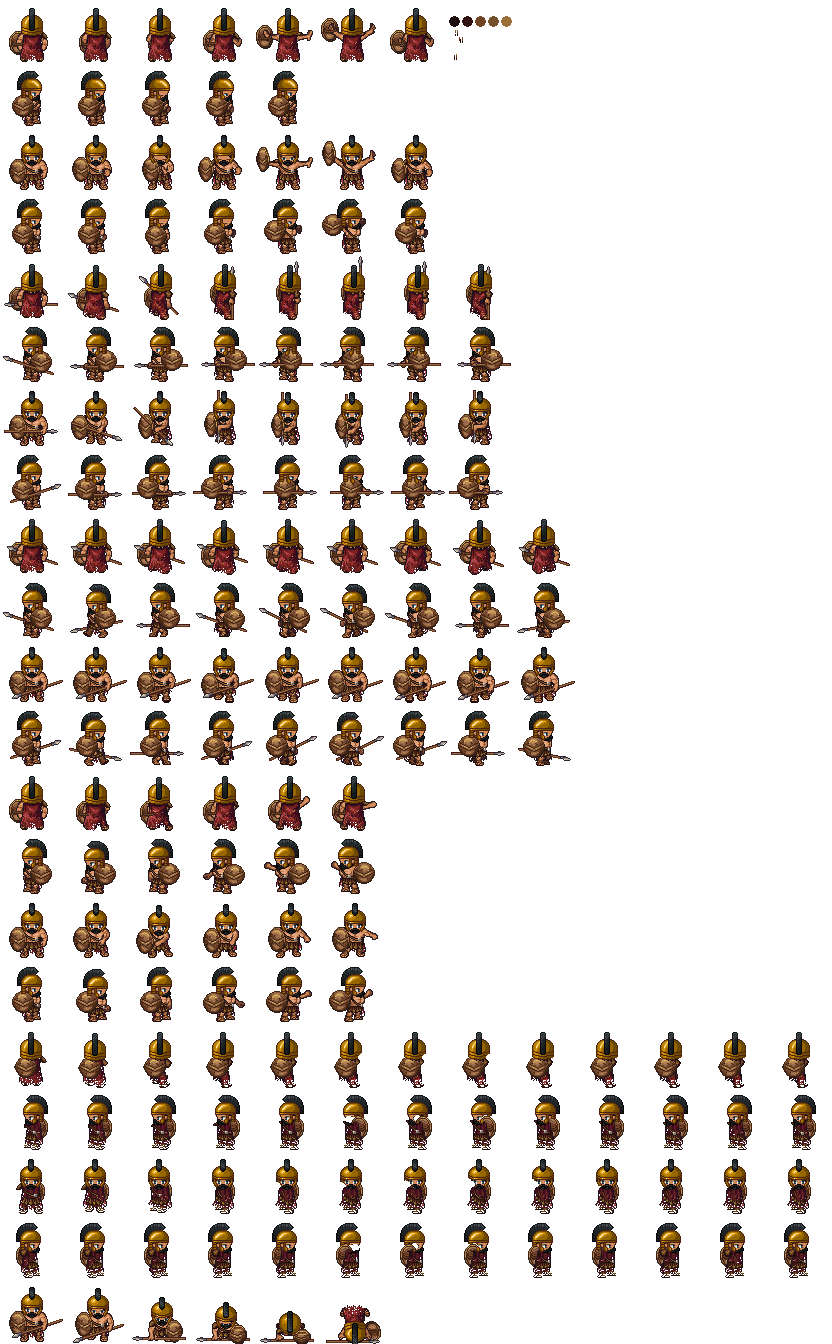
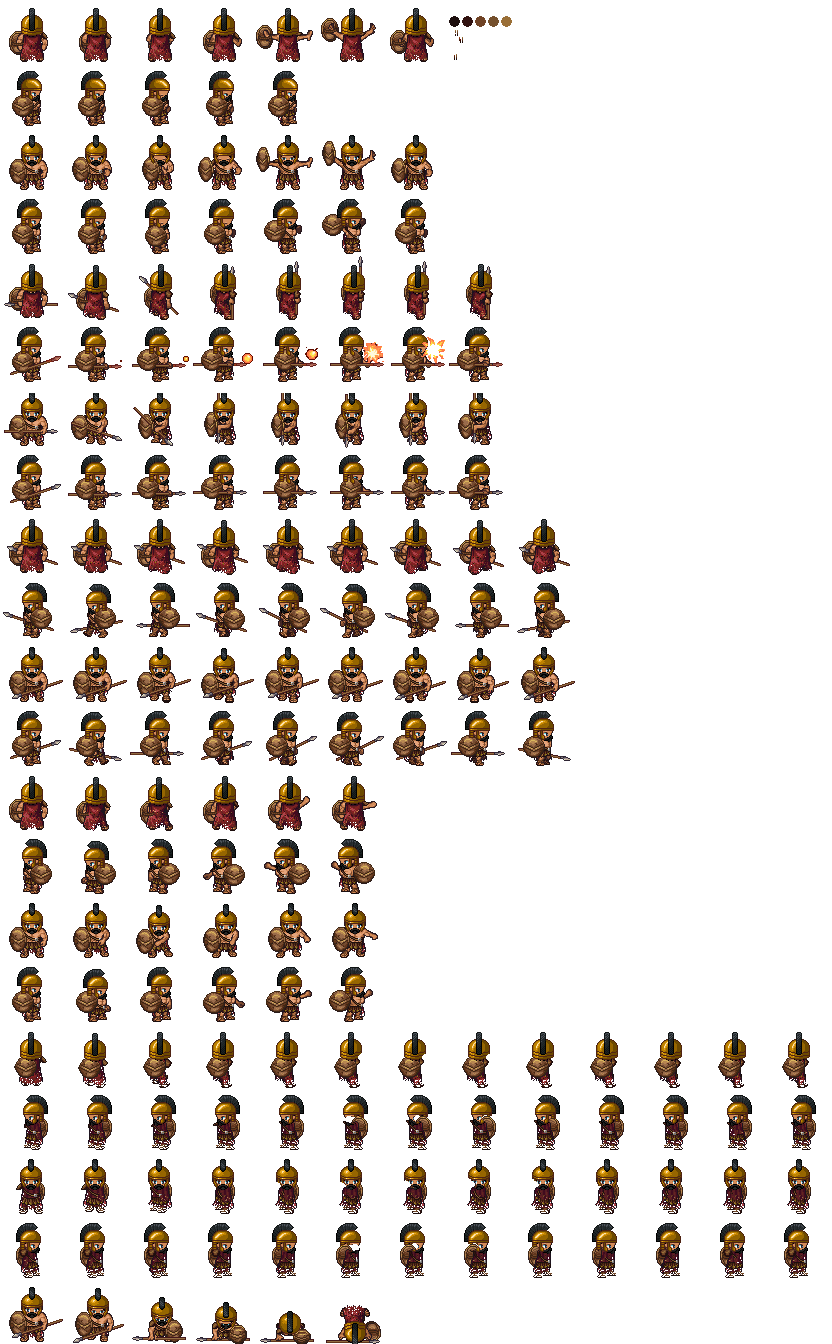
feat: add athena special attack

Changed region(s): [[0.0938, 0.2188, 0.625, 0.2812], [0.0, 0.25, 0.0625, 0.2812]]

diff --git a/components/player.py b/components/player.py
@@ -28,6 +28,7 @@ class Player:
         self.held_object = None
         self.can_transform = False
         self.is_sheep = False
+        self.can_special_attack = False
 
         self.health = 100
         self.health_bar = HealthBar(self.health, (self.rect.x + self.rect.width) / 4, y, self.rect.width, 5)
@@ -58,6 +59,10 @@ class Player:
                                 step=1, duration=0.1, duration_left=0.1,
                                 anim_type=AnimationType.ONESHOT,
                                 row=20, sprites_in_row=6)
+        self.special_attack = Animation(first=0, last=7, cur=0,
+                                step=1,duration=0.05,duration_left=0.05,
+                                anim_type=AnimationType.ONESHOT,
+                                row=5, sprites_in_row=8)
         
         #sheep texture
         self.sheep_texture = None
@@ -188,6 +193,12 @@ class Player:
                 if self.dead.cur == self.dead.last:
                     self.rect.y += 10
             
+            case PlayerState.SPECIAL_ATTACK:
+                self.special_attack.update(delta_time)
+                if self.special_attack.done:
+                    self.state = PlayerState.IDLE
+                    self.special_attack.reset()
+            
     def handle_tile_collision(self, level, axis):
         min_col = int(self.bounding_box.x / TILE_SIZE)
         max_col = int((self.bounding_box.x + self.bounding_box.width) / TILE_SIZE)
@@ -281,6 +292,11 @@ class Player:
 
             case PlayerState.DEAD:
                 draw_texture_pro(self.texture, self.dead.frame(self.width, 20), self.rect, Vector2(0, 0), 0.0, WHITE)
+
+            case PlayerState.SPECIAL_ATTACK:
+                frame = self.special_attack.frame(self.width, 5)
+                frame.width *= self.player_direction
+                draw_texture_pro(self.texture, frame, self.rect, Vector2(0, 0), 0.0, WHITE)
         
         self.health_bar.draw()
     

diff --git a/screens/level_two.py b/screens/level_two.py
@@ -103,6 +103,7 @@ class Level_Two:
             if self.altar.gold == TOTAL_GOLD:
                 self.altar.offer_complete = True
                 self.athena.shown = True
+                player.can_special_attack = True
 
 
     # something similar will be needed for crewmates
@@ -127,8 +128,12 @@ class Level_Two:
     def handle_cyclops_interaction(self, player, delta_time):
         collided_enemy = self.check_collision(player, self.cyclopses.collection)
         if is_mouse_button_down(MouseButton.MOUSE_BUTTON_LEFT):
-                player.state = PlayerState.ATTACKING
+            player.state = PlayerState.ATTACKING
+        if is_key_pressed(KeyboardKey.KEY_Q) and player.can_special_attack:
+            print(player.special_attack)
+            player.state = PlayerState.SPECIAL_ATTACK
         if collided_enemy != -1 and self.cyclopses.collection[collided_enemy].state != CyclopsState.DEAD:
             if is_mouse_button_released(MouseButton.MOUSE_BUTTON_LEFT):
                     self.cyclopses.collection[collided_enemy].health -= 25
             player.health -= self.cyclopses.collection[collided_enemy].attack(delta_time)
+        

diff --git a/enums.py b/enums.py
@@ -3,7 +3,7 @@ class PlayerState(enumerate):
     WALKING = 0
     ATTACKING = 1
     SHEEP = 2
-    POWER_ATTACK = 3
+    SPECIAL_ATTACK = 3
     IDLE = 4
     JUMPING = 5
     SHEEP_IDLE =6

diff --git a/roadmap.md b/roadmap.md
@@ -542,3 +542,20 @@ Next/TO DO:
 * Add minimap
 * Refactor collision code to be shared between levels
 * Improve instructions screen
+
+### Date: 05/02/26
+**add athena special attack**
+......
+**Implementation**
+*Technical Plan/Credit*: N/A
+*Content Credit*:
+**feat: add athena special attack**
+.......
+Next/TO DO:
+* Add crewmates to collect
+* Add big boss cyclops
+* Add win screen
+* Add zoomed in camera
+* Add minimap
+* Refactor collision code to be shared between levels
+* Improve instructions screen
